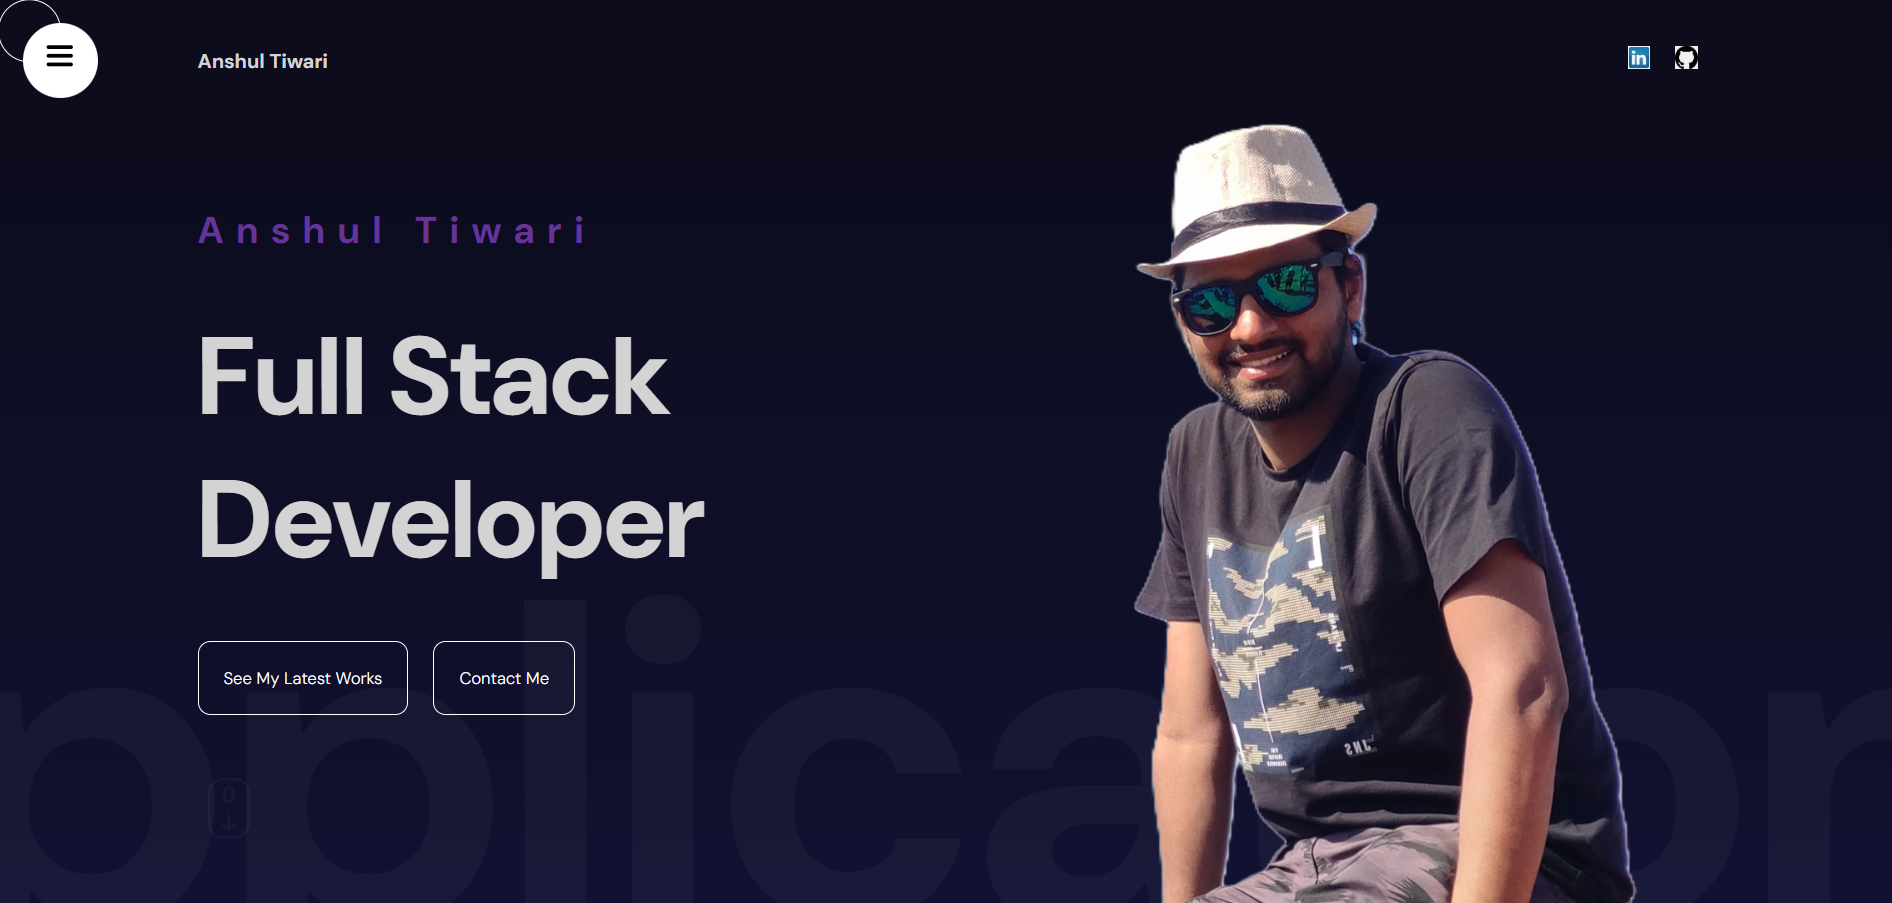
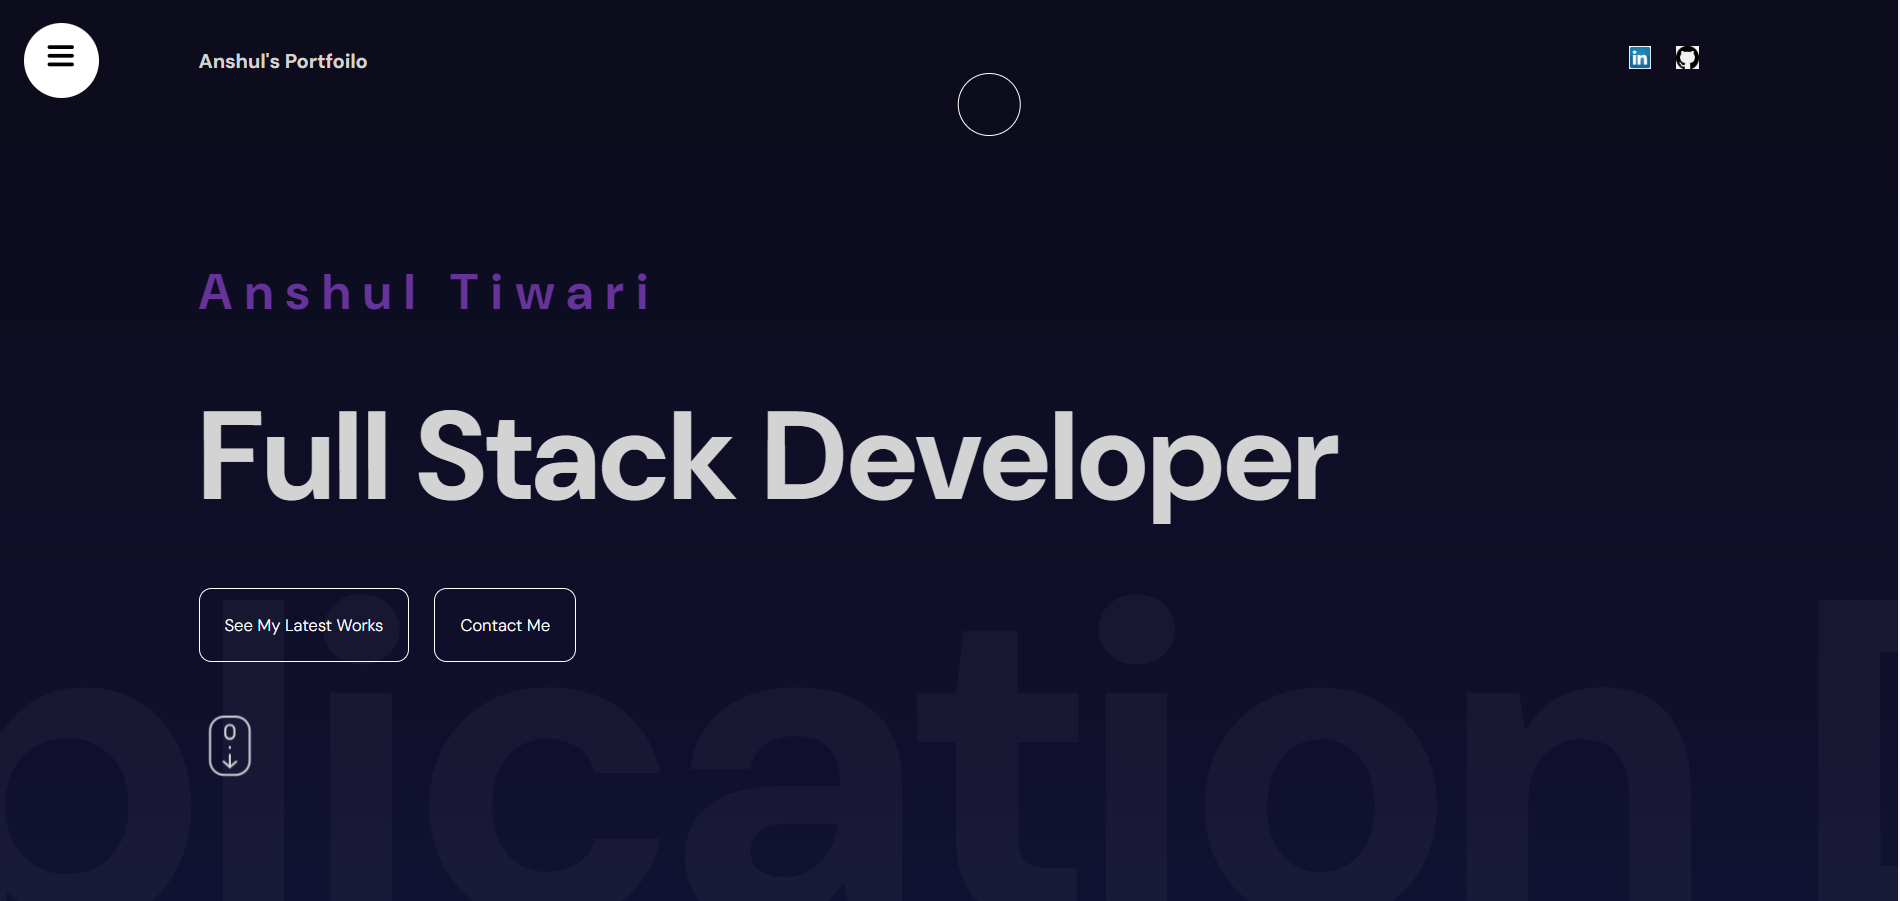
Added New Projects

diff --git a/src/components/portfolio/Portfolio.jsx b/src/components/portfolio/Portfolio.jsx
@@ -9,6 +9,7 @@ const items = [
     img: "pulze.png",
     desc: "A scalable, user-centric platform designed to enhance team collaboration through screen recording, note publishing, and seamless video sharing powered by AWS. The tool allows users to create, edit, annotate, and share videos efficiently, while integrated admin functionalities such as workspace creation, user invitations, and notifications streamline team management. Built using Shadcn's design system with custom higher-order components (HOCs), the platform ensures a visually consistent and reusable UI, delivering an intuitive and cohesive user experience.",
     link: "https://front-end-repo-p11-debugdragons-pulze.vercel.app/home",
+    demo: "https://github.com/anshultiwari95/front-end-repo-p11-debugdragons-pulze",
   },
   {
     id: "2",
@@ -16,6 +17,7 @@ const items = [
     img: "aimock.png",
     desc: "An AI-driven mock interview application that generates real-time interview questions tailored to the candidate's tech stack, experience, and job position using Gemini AI. The platform includes a rating system to evaluate candidate answers, compares them with AI-generated responses, and provides an overall score. It integrates video and microphone recording for realistic interview simulations and features a user-friendly dashboard to track interview history. Drizzle ORM ensures efficient, type-safe database management, while Clerk provides secure user authentication and session management.",
     link: "https://ai-mock-interviewer-three.vercel.app/sign-in",
+    demo: "https://github.com/anshultiwari95/AI-Mock-Interviewer",
   },
   {
     id: "3",
@@ -23,6 +25,7 @@ const items = [
     img: "",
     desc: "Developed a comprehensive full-stack food delivery website utilizing a React frontend and a Node.js/Express backend, with responsive design achieved through Tailwind CSS and daisyUI. Implemented robust security features, including authentication via bcrypt, JWT, and OTP, alongside efficient data management using MongoDB and Mongoose. The project includes functionalities for image uploads via Cloudinary and automated email notifications through Nodemailer for account and order updates. Enhanced user experience is facilitated by React Toastify, providing real-time notifications for improved engagement.",
     link: "https://github.com/anshultiwari95/FoodDeliveryWebsite",
+    demo: "https://github.com/anshultiwari95/FoodDeliveryWebsite",
   },
   {
     id: "4",
@@ -30,6 +33,15 @@ const items = [
     img: "port.png",
     desc: "A responsive portfolio website built using React and Framer Motion, featuring dynamic transitions and smooth animations. It includes services, contact, parallax scrolling, and project showcase pages, all aimed at improving user engagement. The site integrates interactive visual elements and is optimized for seamless performance across various devices.",
     link: "https://anshul-tiwari-portfolio.vercel.app/",
+    demo: "https://github.com/anshultiwari95/anshul_tiwari_portfolio",
+  },
+  {
+    id: "5",
+    title: "Dice Game",
+    img: "dice.png",
+    desc: "Created an interactive Dice Game using React and Vite, where players select a number and click on a dice image. If the selected number matches the rolled dice, players earn points equivalent to the dice value. Incorrect guesses result in a deduction of two points, adding an element of strategy and excitement. The game features a clean and responsive design with styled-components, ensuring an engaging user experience.",
+    link: "https://dice-game-one-indol.vercel.app/",
+    demo: "https://github.com/anshultiwari95/DiceGame",
   },
 ];
 
@@ -53,7 +65,9 @@ const Single = ({ item }) => {
             <h2>{item.title}</h2>
             <p>{item.desc}</p>
             <a href={item.link} target="_blank" rel="noreferrer">
-              <button>See Demo</button>
+              <a href={item.demo} target="_blank" rel="noreferrer">
+                <button>See Demo</button>
+              </a>
             </a>
           </motion.div>
         </div>

diff --git a/src/components/services/Services.jsx b/src/components/services/Services.jsx
@@ -35,9 +35,9 @@ const Services = () => {
     >
       <motion.div className="textContainer" variants={variants}>
         <p>
-          I focus on helping your brand grow
+          I’m a Full-Stack Developer
           <br />
-          and move forward
+          From React to Node.js and Beyond
         </p>
         <hr />
       </motion.div>
@@ -45,15 +45,22 @@ const Services = () => {
         <div className="title">
           <img src="/people.webp" alt="" />
           <h1>
-            <motion.b whileHover={{ color: "orange" }}>Unique</motion.b> Ideas
+            <motion.b whileHover={{ color: "orange" }}>
+              Full-Stack Developer
+            </motion.b>{" "}
+            Specializing in
           </h1>
         </div>
         <div className="title">
           <h1>
-            <motion.b whileHover={{ color: "orange" }}>For Your</motion.b>{" "}
-            Business
+            <motion.b whileHover={{ color: "orange" }}>
+              {" "}
+              Scalable, Dynamic Web Applications
+            </motion.b>
           </h1>
-          <button>What I Do?</button>
+          <a href="/AnshulTiwariResume.pdf" download="AnshulTiwariResume.pdf">
+            <button>My Resume</button>
+          </a>
         </div>
       </motion.div>
       <motion.div className="listContainer" variants={variants}>

diff --git a/src/components/hero/hero.scss b/src/components/hero/hero.scss
@@ -12,7 +12,7 @@
      
      .textContainer{
         height: 100%;
-        width: 50%;
+        width: 80%;
         display: flex;
         flex-direction: column;
         justify-content: center;
@@ -27,13 +27,13 @@
        }
 
       h2{
-        font-size: 30px;
+        font-size: 40px;
         color:rebeccapurple;
         letter-spacing: 10px;
       }  
 
       h1{
-        font-size: 88px;   
+        font-size: 100px;   
         
         @include mobile{
           font-size: 36px;
@@ -41,21 +41,22 @@
       }
 
       .buttons{
+        cursor: pointer;
         button{
         padding: 20px;
         border: 1px solid white;
         border-radius: 10px;
-        background: transparent;
+        background:transparent;
         color:white ;
-        cursor: pointer;
-        margin-right: 20px;
-        
+        margin-right: 20px;        
         font-weight: 300;
+        cursor: pointer;
         }
       }
 
       img{
         width: 50px;
+        
       }  
 
      }   

diff --git a/src/components/hero/Hero.jsx b/src/components/hero/Hero.jsx
@@ -55,12 +55,7 @@ const Hero = () => {
             <motion.button variants={textVariants}>
               See My Latest Works
             </motion.button>
-            <a
-              href="/AnshulTiwariResume.pdf"
-              download="Anshul_Tiwari_Resume.pdf"
-            >
-              <motion.button variants={textVariants}>My Resume</motion.button>
-            </a>
+            <motion.button variants={textVariants}>Contact Me</motion.button>
           </motion.div>
           <motion.img
             src="scroll.png"
@@ -78,9 +73,7 @@ const Hero = () => {
       >
         Web Application Developer
       </motion.div>
-      <div className="imageContainer">
-        <img src="anshul.png" alt="" width="10" height="10" />
-      </div>
+      <div className="imageContainer"></div>
     </div>
   );
 };

diff --git a/src/components/navbar/Navbar.jsx b/src/components/navbar/Navbar.jsx
@@ -12,7 +12,7 @@ const Navbar = () => {
           animate={{ opacity: 1, scale: 1 }}
           transition={{ duration: 0.5 }}
         >
-          Anshul Tiwari
+          Anshul's Portfoilo
         </motion.span>
         <div className="social">
           <a

diff --git a/src/components/services/services.scss b/src/components/services/services.scss
@@ -72,7 +72,7 @@
             }
 
             h1{
-                font-size: 96px;
+                font-size: 40px;
                 font-weight: 100;
 
                 @include mobile{
